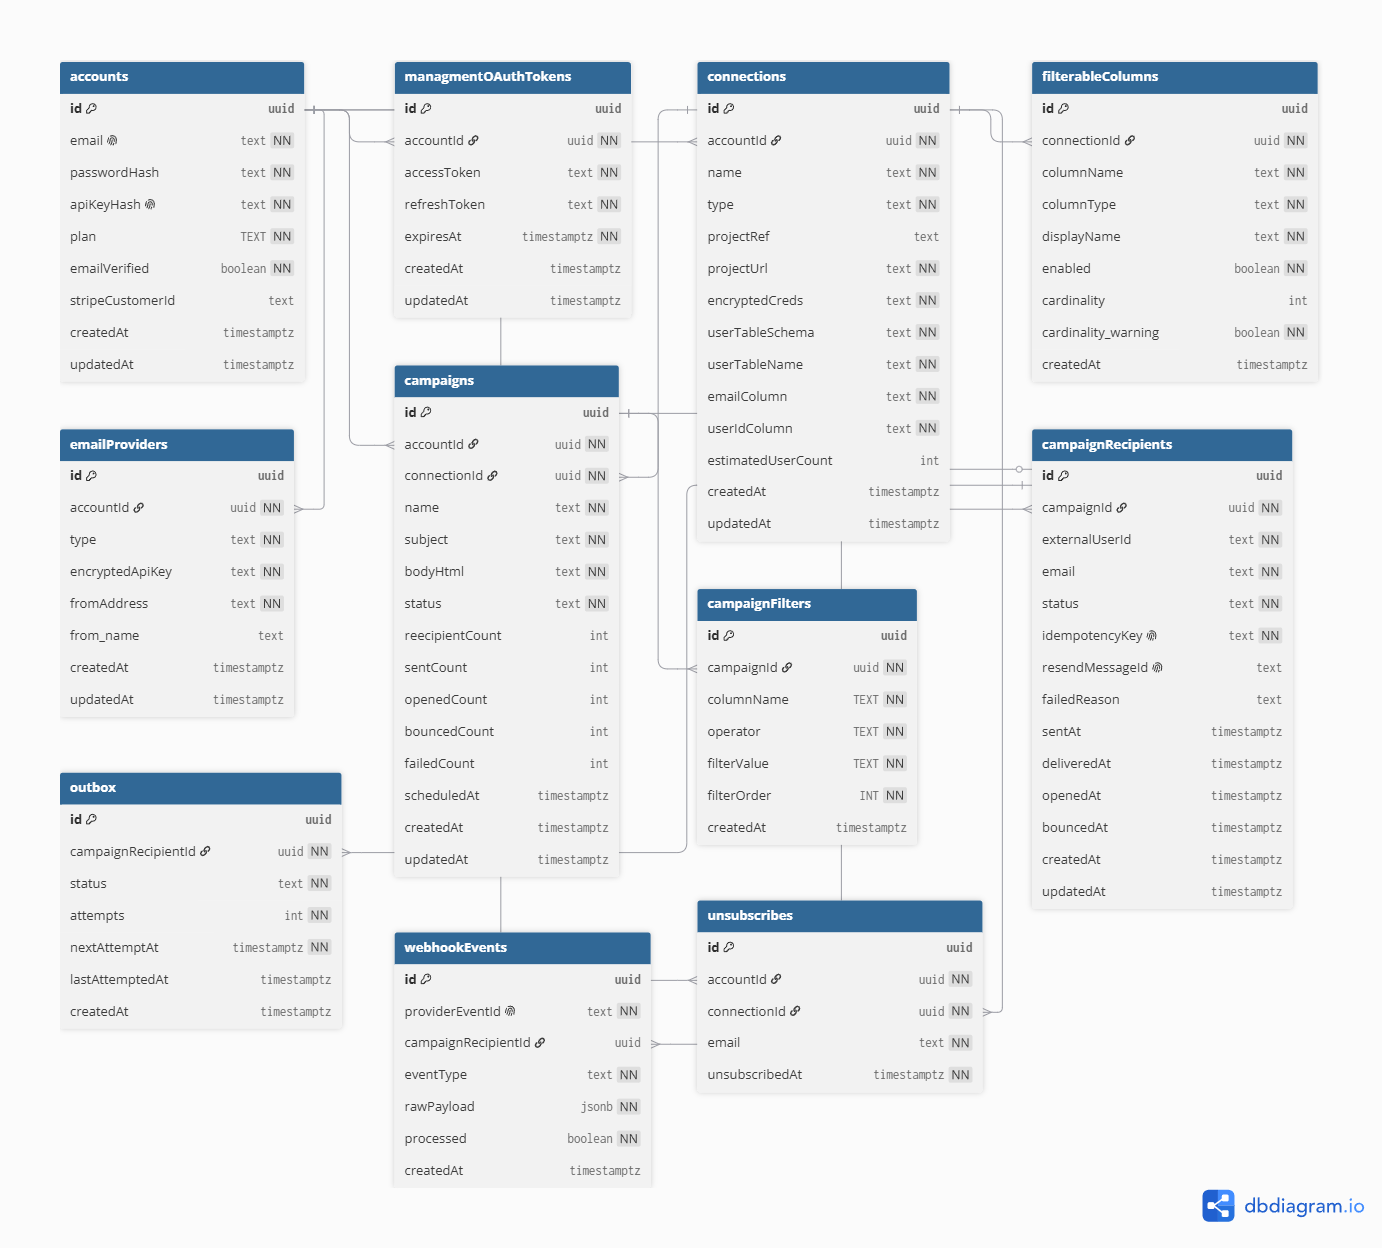
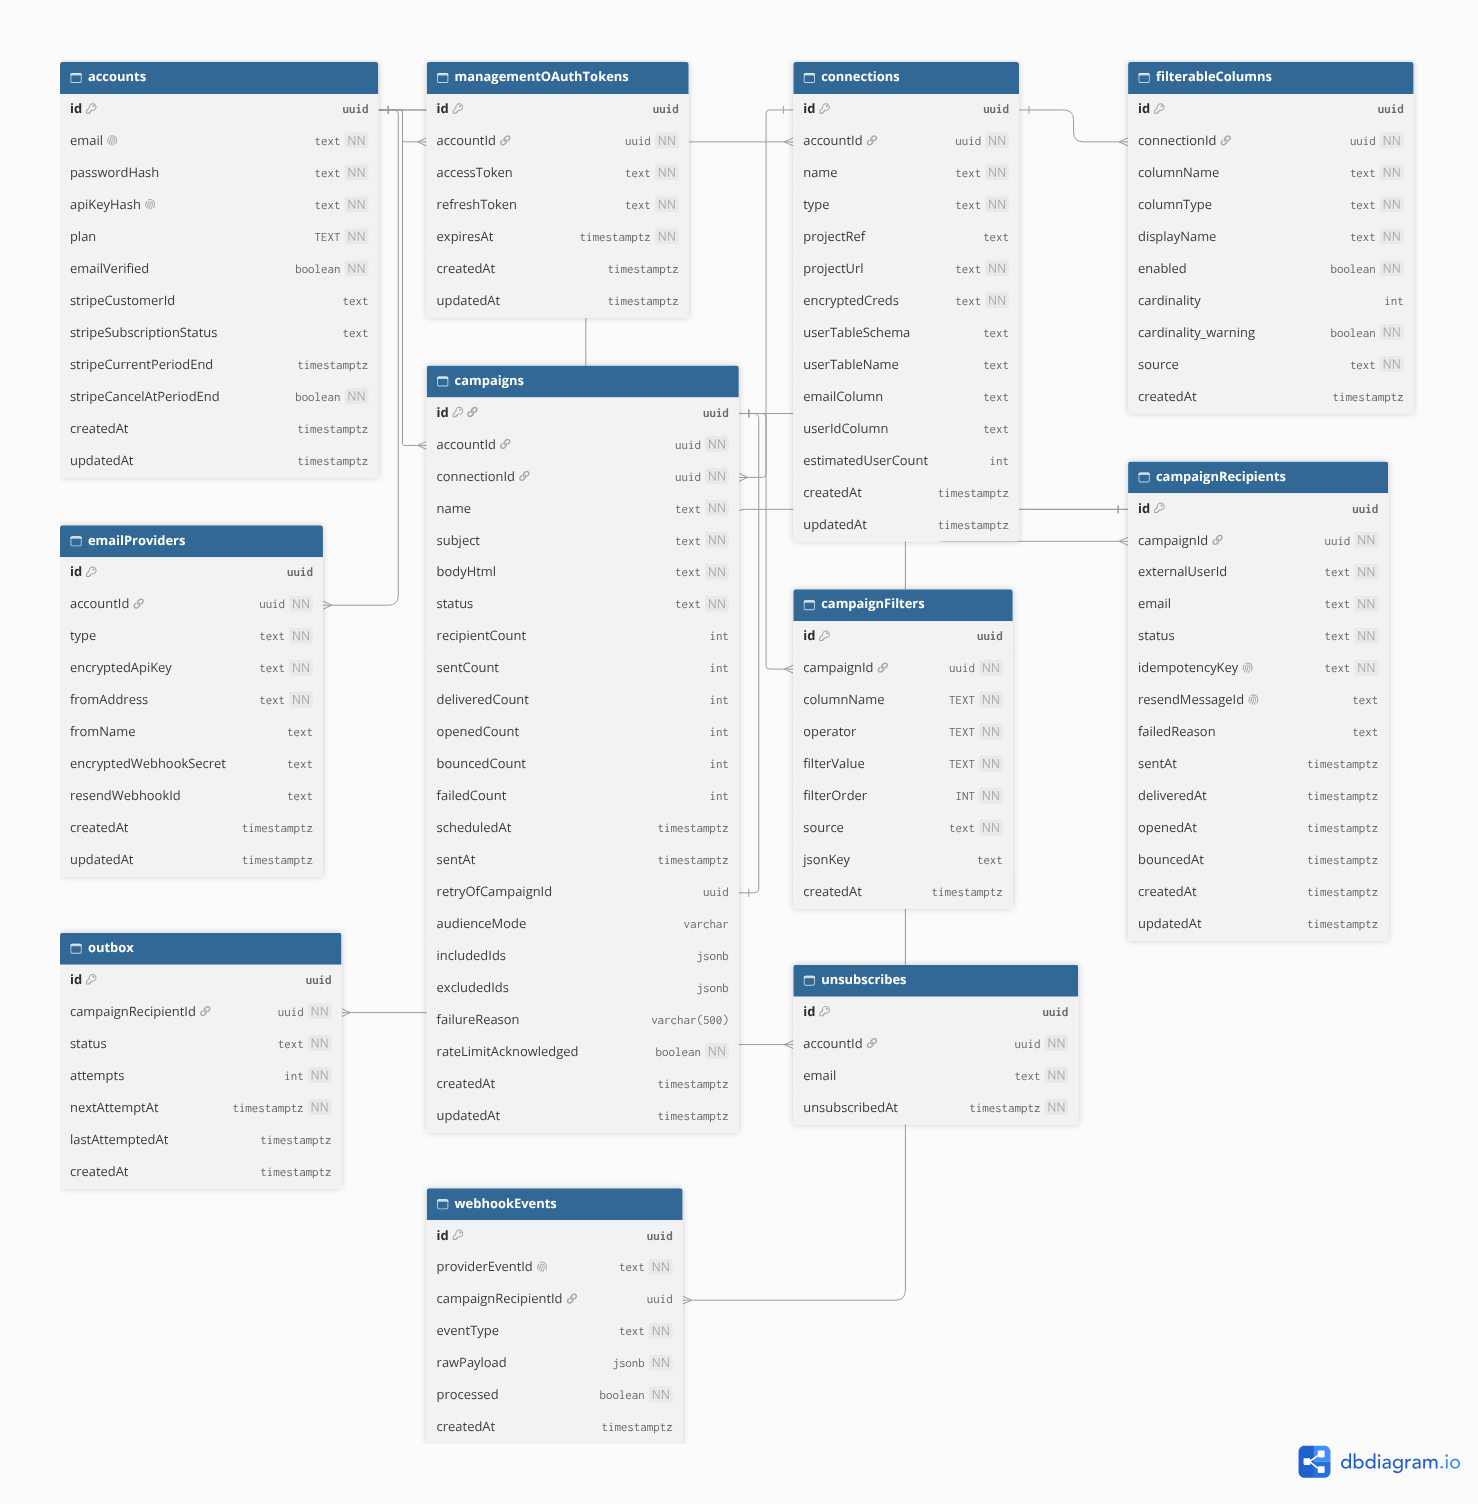
Add DECISIONS, SECURITY docs and update ERD

diff --git a/DECISIONS.md b/DECISIONS.md
@@ -1,0 +1,147 @@
+# Architectural Decisions
+
+Decisions made during BroadcastMail development. Each entry covers what was chosen, what else was on the table, and why it landed where it did.
+
+---
+
+## Auth: sessions over JWT
+
+Spring Boot backend + browser SPA. The typical argument for JWT is statelessness, but stateless auth only matters when you have multiple backend instances that can't share memory. BroadcastMail runs as a single Railway service, so the benefit disappears. Worse, JWT logout requires a denylist, and maintaining a denylist recreates exactly the server-side state you were trying to avoid. Sessions are simpler and give real revocation for free.
+
+---
+
+## Cookie strategy: SameSite=None with CSRF double-submit
+
+The frontend is on Vercel, the API on Railway: different origins. SameSite=Strict blocks the cookie cross-origin, SameSite=Lax only sends it on top-level navigations. SameSite=None (with Secure) is the only option that works for a cross-origin SPA making fetch requests.
+
+That opens up CSRF since the browser will attach the cookie to any cross-origin request. Defense is CSRF double-submit: the server sets a second cookie with a random token, the client reads it and sends it back as a request header, the server checks they match. An attacker's site can trigger a request with the session cookie but can't read the CSRF cookie (cross-origin reads are blocked), so it can't forge the header.
+
+Additional hardening: the CSRF token is tied to the session and regenerated on each login, which also mitigates session fixation. Cookies are HttpOnly and Secure. Sessions expire after 30 days.
+
+---
+
+## Three-service Railway deployment, shared database
+
+Three separate Railway services: `broadcastmail-api`, `broadcastmail-worker`, `broadcastmail-webhooks`. All share a single Railway PostgreSQL instance over the internal `.railway.internal` network.
+
+The services have different scaling requirements and failure modes. The worker processes the outbox in a tight loop; the webhook receiver needs to absorb Resend traffic spikes independently. Separate deployments mean they can be restarted, scaled, or replaced without affecting the others. The shared database keeps the data model simple, with no cross-service HTTP calls or message bus needed for the core workflow.
+
+---
+
+## Modular monolith inside each service, package-by-feature
+
+Packages organized by feature (`campaigns`, `recipients`, `auth`) rather than by layer (`controllers`, `services`, `repositories`). Each feature owns its controller, service, repository, and domain objects.
+
+PayFlow used package-by-layer because it had one deep domain (payments) with significant cross-cutting concerns. BroadcastMail has several independent features with little overlap. Package-by-feature makes each slice self-contained: adding or modifying a feature means touching one package rather than four.
+
+---
+
+## Outbox pattern over WAL CDC
+
+Campaign send requests write to an `outbox_entries` table in the same transaction as the campaign state change. A separate poller picks up entries and calls Resend.
+
+WAL CDC (change data capture from the Postgres write-ahead log) would have worked here, but it makes the most sense when you're reacting to writes you don't control, like another service's database. BroadcastMail owns every write in this flow. The outbox pattern gives explicit control over retry logic, failure semantics, and dead-letter handling without needing a CDC connector. Railway-managed Postgres also makes WAL slot management an unnecessary operational burden.
+
+---
+
+## FOR UPDATE SKIP LOCKED for worker concurrency
+
+The outbox poller claims rows with `SELECT ... FOR UPDATE SKIP LOCKED` before processing them. This pushes concurrency control into the database rather than the application layer.
+
+`SKIP LOCKED` means multiple worker threads can poll the same table simultaneously without blocking each other: each thread atomically claims a row that no other thread holds. Application-level locking (Redis distributed locks, in-memory flags) requires a separate system and introduces failure modes when the lock holder crashes. The database handles it correctly by default.
+
+The claim step (`PROCESSING` status update) runs in its own short transaction, separate from the Resend API call. Holding a transaction open across an external HTTP call would pin a connection and block other work.
+
+---
+
+## BYOK Resend model
+
+Users provide their own Resend API key. BroadcastMail stores it (encrypted at rest) and uses it to send on their behalf. BroadcastMail never holds a shared sending pool.
+
+This shifts the trust boundary: the user is responsible for their own Resend account, rate limits, and domain verification. BroadcastMail's job is to drive Resend correctly. Email delivery costs don't scale with BroadcastMail's user count since there's no shared sending infrastructure. The tradeoff is that users have to set up a Resend account, which adds a small amount of onboarding friction.
+
+---
+
+## Two pricing tiers, not three
+
+Free (500 unique recipients per 30 days) and Pro ($9/month, unlimited).
+
+Three-tier pricing works when you have enough users to fill the middle tier. At early traction (50-100 users), most people are on free, a few upgrade, and the middle tier stays empty. Two tiers creates one clear conversion moment: hit the recipient cap or want filters, pay $9. The upgrade event is obvious and the enforcement logic is simpler.
+
+---
+
+## Rolling 30-day window via PeriodResetJob
+
+The free tier limit is 500 unique recipients per rolling 30-day period, not per calendar month. `period_reset_at` is set to `now() + 30 days` when an account is created or reset. A scheduled `PeriodResetJob` runs a single native query: `UPDATE accounts SET unique_recipients_this_period = 0, period_reset_at = now() + interval '30 days' WHERE period_reset_at <= now()`.
+
+Calendar-month resets create a cliff effect: users burn through their limit in the first week of the month and hit a wall. A rolling window distributes usage more evenly and feels fairer.
+
+---
+
+## Plan enforcement via Strategy + Facade
+
+`PlanEnforcementFacade` wraps the plan check. Each tier implements a `PlanEnforcementStrategy`. The facade resolves the right strategy at runtime based on the account's plan.
+
+The alternative was a chain of if/else checks scattered across services. The Strategy pattern keeps plan logic in one place and makes adding a third tier later a matter of adding a new strategy class rather than auditing the codebase for enforcement points.
+
+---
+
+## Caffeine over Redis for rate limiting and caching
+
+Rate limiting on the test-send endpoint uses Caffeine (in-process cache). Caching for `ResendClient` (1h per API key) and `EmailSendService` (30s) also uses Caffeine.
+
+BroadcastMail runs as a single Railway instance per service. Redis would add a network hop and an additional service to operate for no benefit. If BroadcastMail ever runs multiple API instances, the rate limit becomes per-instance rather than global, and at that point moving to Redis is the right call. For now, Caffeine is simpler and fast.
+
+---
+
+## Webhook idempotency via UNIQUE constraint
+
+`webhook_events` has a `UNIQUE` constraint on `provider_event_id` (the Svix `svix-id` header). Duplicate webhook deliveries fail the insert and are silently discarded.
+
+Application-level deduplication (check-then-insert) has a race condition: two threads can both pass the check before either inserts. A database constraint handles this correctly without coordination overhead.
+
+---
+
+## CampaignCompletionService: single native query with COUNT(*) FILTER
+
+`countStatusesByCampaignId` is a single native query using `COUNT(*) FILTER (WHERE status = ...)` to count delivered, opened, bounced, and failed recipients in one database round trip.
+
+Three separate queries (one per status) were replaced because the counts are always read together. One query is faster and keeps the data consistent: the counts reflect the same snapshot of the table.
+
+---
+
+## Unsubscribe links: custom JJWT tokens over provider-managed
+
+Unsubscribe links are signed with JJWT using a shared `UNSUBSCRIBE_SECRET` environment variable. Tokens expire after 30 days. The `List-Unsubscribe` header is appended to every outgoing email.
+
+Resend's BYOK model doesn't provide managed unsubscribe links for transactional sending. Building it with JJWT keeps the implementation inside the existing codebase, avoids another external dependency, and gives explicit control over the expiry and validation logic. The `UNSUBSCRIBE_SECRET` is shared between `broadcastmail-api` and `broadcastmail-worker` since both need to generate and validate tokens.
+
+---
+
+## Cursor-based pagination over offset
+
+Recipient and campaign list endpoints use cursor-based pagination. Offset pagination degrades as the table grows: `OFFSET 5000` scans and discards 5000 rows. Cursor pagination uses an indexed column (typically `id` or `created_at`) as the anchor, so performance stays constant regardless of how far into the list you are.
+
+---
+
+## Verification token errors collapse to 400
+
+Email verification endpoints return a generic 400 for any token error: expired, not found, already used. No detail about which case applies.
+
+Returning distinct errors (404 for not found, 410 for expired) would let an attacker probe which tokens exist and which have been used. A collapsed response gives nothing away.
+
+---
+
+## broadcastmail-common: shared Maven library via GitHub Packages
+
+Entities, repositories, and shared DTOs used by more than one service live in `broadcastmail-common`, published to GitHub Packages. Services declare it as a Maven dependency.
+
+The alternative was duplication across services, which creates drift over time. Publishing to GitHub Packages keeps the library private without requiring a separate artifact registry. The CI pipelines authenticate with `server-id: github` using `GITHUB_TOKEN`.
+
+---
+
+## Variable substitution: allowedColumns whitelist + HTML escaping
+
+`{{variable}}` placeholders in campaign content are resolved server-side at send time. Only columns in `allowedColumns`, derived from the filterable columns configuration, can be referenced. Values are HTML-escaped before insertion (`&`, `<`, `>`, `"`).
+
+Allowing arbitrary column names would let a user reference columns they shouldn't (internal flags, credentials stored in the database). The whitelist matches the columns already exposed for filtering, which keeps the surface area consistent. HTML escaping prevents a recipient's profile data from being used to inject markup into the campaign content.

diff --git a/SECURITY.md b/SECURITY.md
@@ -1,0 +1,28 @@
+# Security
+
+## Reporting a vulnerability
+
+Email security@broadcastmail.com with a description of the issue, steps to reproduce, and the impact you think it has. I'll acknowledge within 7 days.
+
+Don't open a public GitHub issue for security problems.
+
+## Scope
+
+**In scope**
+- broadcastmail.com — the dashboard and API
+- The Resend webhook receiver
+- Authentication, session handling, and plan enforcement
+- How your Supabase credentials and Resend API keys are stored and used
+
+**Out of scope**
+- Railway, Supabase, Resend, or Stripe infrastructure
+- Denial-of-service attacks
+- Social engineering
+
+## Bug bounty
+
+No bounty program. If you report something real, I'll credit you publicly if you want.
+
+## Disclosure
+
+I follow a 90-day disclosure timeline. If that doesn't work for your situation, email me.
